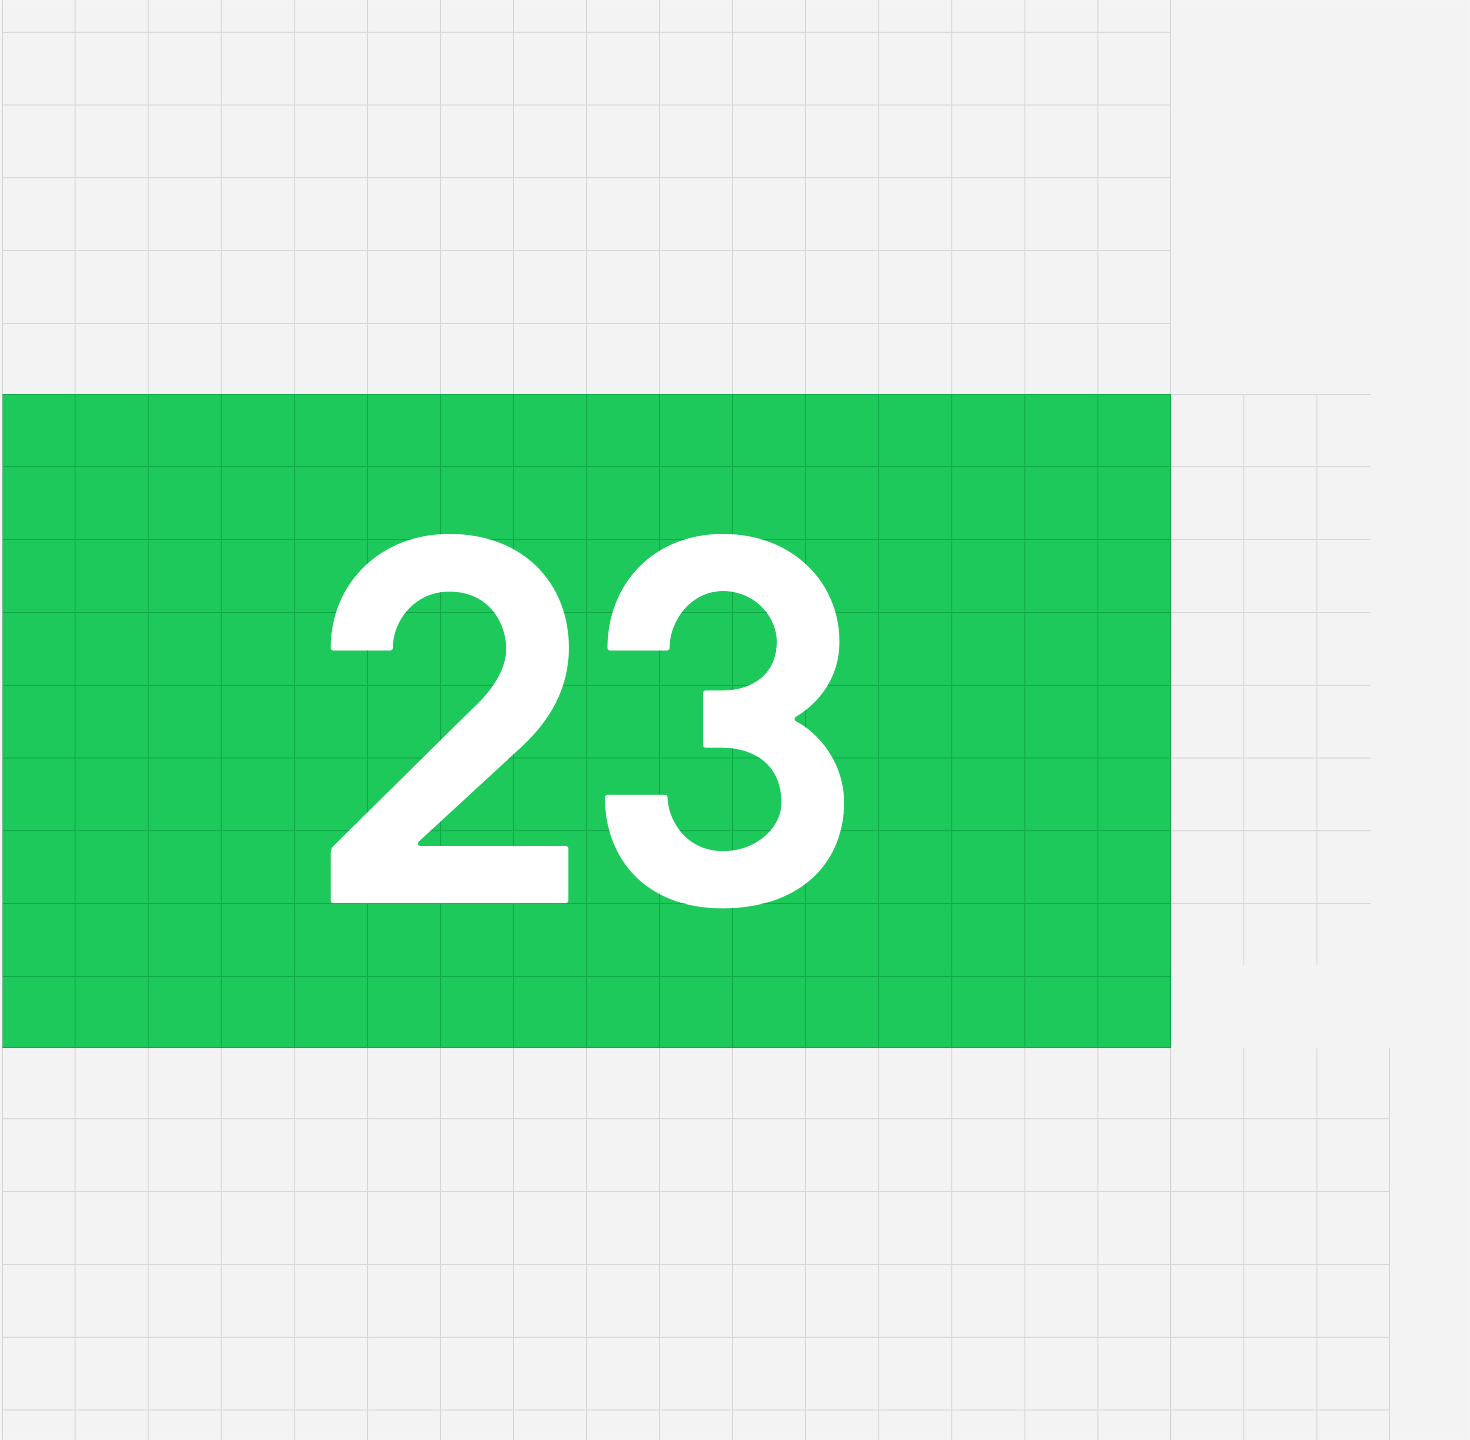
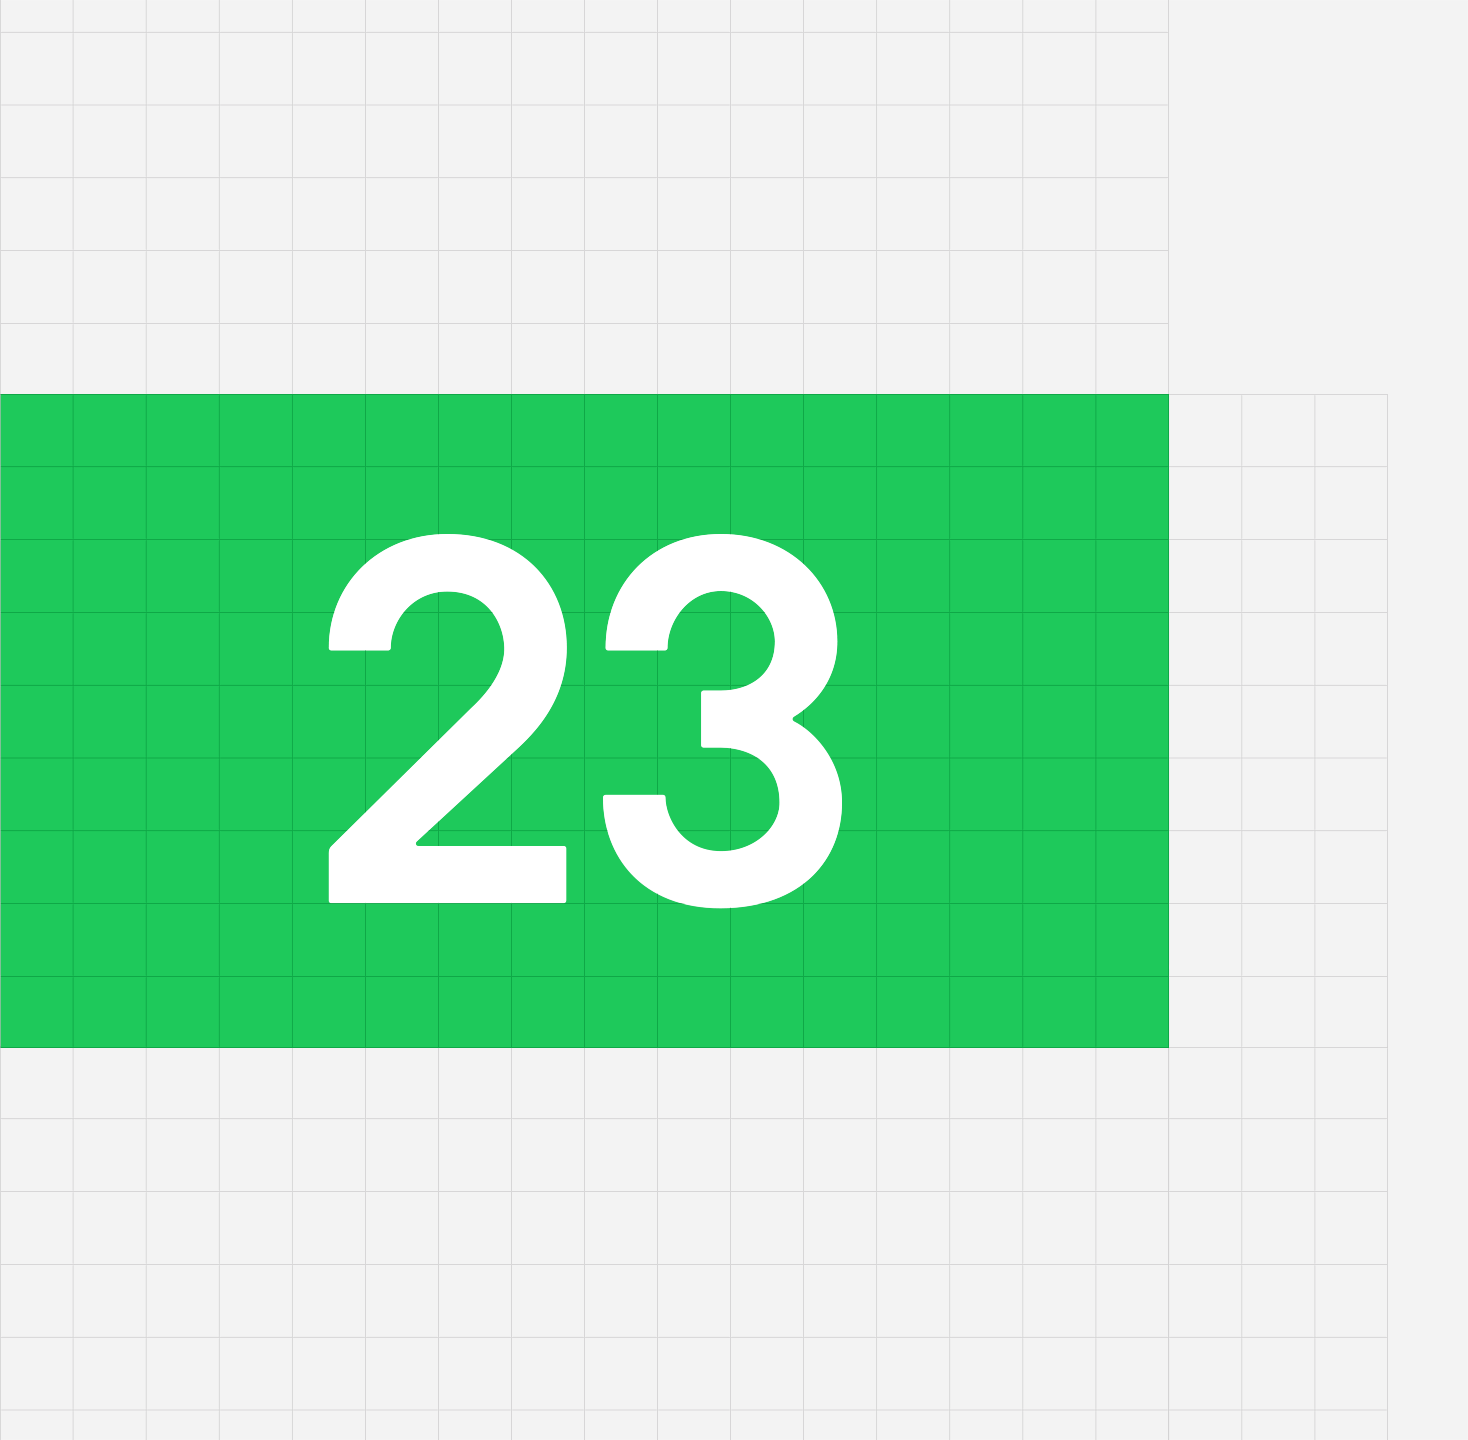
Case img update

diff --git a/clients/Norgram-site/index.html b/clients/Norgram-site/index.html
@@ -756,7 +756,7 @@ Our process is defined by collaboration. We work with brands, start-ups, and peo
 							Design<br>
 							Focusing on the concept of the canvas we wanted to create a design system that provided TwentyThree™ with simple tools. We developed a design system inspired by common wayfinding principles. These principles acts as guideance troughout the visual language of typography, colors, iconograpy and grid systems.</div>
 					</div>
-					<div data-name="moduleImage" width="1470" height="1440">assets/images/cases/twentythree/twentythree_02.png</div>
+					<div data-name="moduleImage" width="1468" height="1440">assets/images/cases/twentythree/twentythree_02.png</div>
 					<div data-name="moduleText" data-width-scale="0.6" >
 						<div data-name="top">The brandmark is created based on the idea of a canvas. A canvas being a frame to facilitate content. The canvas resembles the purpose of the company which is to facilitate visual sharing. 
 
